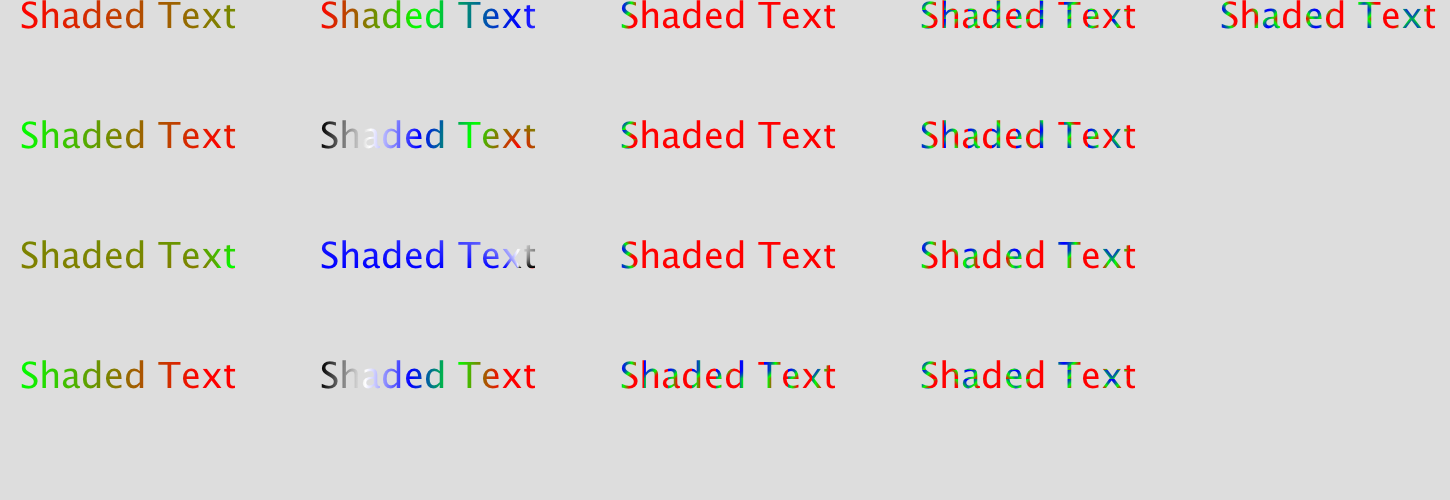
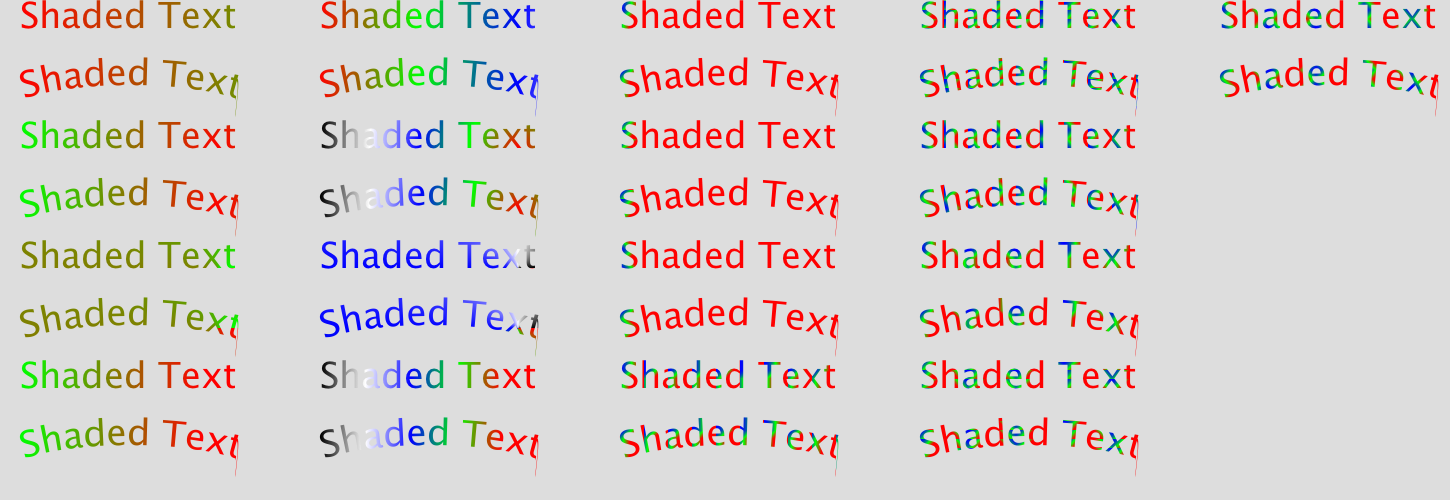
[PDF] add drawTextOnPath support.
BUG=239
TBR=reed@google.com

Review URL: http://codereview.appspot.com/5363045

git-svn-id: https://skia.googlecode.com/svn/trunk@2638 2bbb7eff-a529-9590-31e7-b0007b416f81

diff --git a/src/pdf/SkPDFDevice.cpp b/src/pdf/SkPDFDevice.cpp
@@ -888,7 +888,7 @@ void SkPDFDevice::drawTextOnPath(const SkDraw& d, const void* text, size_t len,
     if (d.fClip->isEmpty()) {
         return;
     }
-    NOT_IMPLEMENTED("drawTextOnPath", false);
+    d.drawTextOnPath((const char*)text, len, path, matrix, paint);
 }
 
 void SkPDFDevice::drawVertices(const SkDraw& d, SkCanvas::VertexMode,
